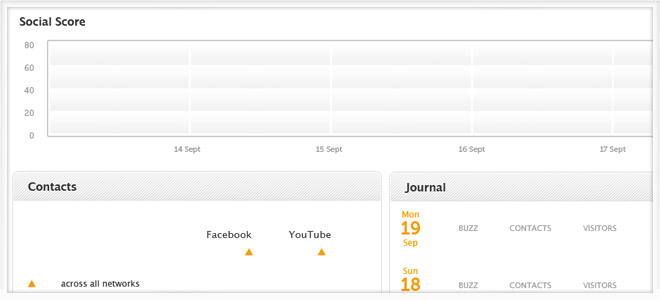
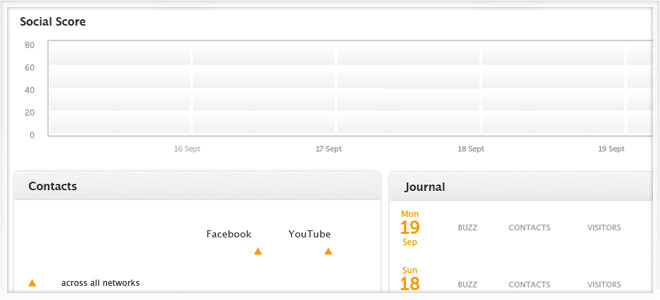
dummy buzz screens, fixed analytics slide positioning

diff --git a/stylesheets/parallax_demo.css b/stylesheets/parallax_demo.css
@@ -49,6 +49,7 @@ h1 { text-shadow: 0 0 3px #f90; }
 
 .main_slide h1 { margin-top:30px; }
 .main_slide p { padding:20px 20px 30px 20px;}
+#fan_page.main_slide p { padding:20px 20px 40px 20px;}
 .main_slide p { line-height:24px; display:block; font-size:15px; }
 .main_slide .sign_up_form { width:94%; height:300px; }
 
@@ -65,17 +66,26 @@ h1 { text-shadow: 0 0 3px #f90; }
 .slideshow_analytics .point-four { left: 608px; top: 84px; background:#fff;border:3px solid #666; height:3px; width:3px;}
 
 .slideshow_analytics .one { left: 20px; top: 205px; color: #333; font-size:60px; letter-spacing: -7px;}
-.slideshow_analytics .one-delta { left: 39px; top: 272px; color: #666; font-size:12px;letter-spacing: -1px; }
+.slideshow_analytics .one-delta { left: 39px; top: 276px; color: #666; font-size:12px;letter-spacing: -1px; }
 .slideshow_analytics .two {  left: 205px; top: 240px; color: #333; font-size: 20px; letter-spacing: -2px;}
-.slideshow_analytics .two-delta { left: 257px; top: 240px; color: #999;font-size: 12px; letter-spacing: 0; }
+.slideshow_analytics .two-delta { left: 265px; top: 244px; color: #999;font-size: 12px; letter-spacing: 0; }
 .slideshow_analytics .three { left: 288px; top: 240px; color: #333; font-size: 20px; letter-spacing: -2px; }
-.slideshow_analytics .three-delta { left: 330px; top: 240px;color: #999;font-size: 12px; letter-spacing: 0; }
+.slideshow_analytics .three-delta { left: 336px; top: 244px;color: #999;font-size: 12px; letter-spacing: 0; }
 .slideshow_analytics .four { left: 439px; top: 218px; color: #f90;font-size: 13px;  font-weight:bold;  letter-spacing: -1px; }
 .slideshow_analytics .five { left: 490px; top: 218px; color: #f90;font-size: 13px;  font-weight:bold; letter-spacing: -1px; }
 .slideshow_analytics .six { left: 563px; top: 218px; color: #f90;font-size: 13px;  font-weight:bold; letter-spacing: -1px; }
 .slideshow_analytics .seven { left: 440px; top: 276px; color: #f90;font-size: 13px;  font-weight:bold; letter-spacing: -1px;  }
 .slideshow_analytics .eight { left: 493px; top: 276px; color: #f90;font-size: 13px;  font-weight:bold; letter-spacing: -1px;  }
 .slideshow_analytics .nine { left: 563px; top: 276px; color: #f90;font-size: 13px; font-weight:bold; letter-spacing: -1px;  }
+
+.slideshow_buzz { background:#000 url(../images/slide_buzz_bg.jpg) no-repeat; width:660px; height:300px;  }
+.slideshow_buzz ul {  margin:0; padding: 0; list-style:none; background: rgba(0,0,0,0.5);}
+.slideshow_buzz ul li  {  width: 660px; height:300px; }
+.slideshow_buzz .dialog_twitter { background: transparent url(../images/slide_buzz_twitter.png) no-repeat; }
+.slideshow_buzz .dialog_facebook { background: transparent url(../images/slide_buzz_facebook.png) no-repeat; }
+.slideshow_buzz .dialog_youtube { background: transparent url(../images/slide_buzz_youtube.png) no-repeat; }
+.slideshow_buzz .dialog_flickr { background: transparent url(../images/slide_buzz_flickr.png) no-repeat; }
+
 
 a.next { background: transparent url(../images/next.png) no-repeat; width:85px; height:43px;  right: 20px; display: block ; position: absolute; text-transform: uppercase; padding-top: 5px; background-position: 30px -5px; margin-top: -15px; opacity:0.9; color: #eee;}
 a.bttn_sign_up { background-position: 125px -5px; width: 180px; margin-top:0px; }

diff --git a/index.html b/index.html
@@ -87,7 +87,13 @@
         <p>Talking to your customers and fans has never been easier. Our buzz grid aggregates all your social network feeds in a single, filterable page. Our composer lets you easily schedule your posts to Twitter and Facebook, from one central place. And our aggregated address book (<em>coming soon!</em>) lists every fan, follower, friend or contact across all your accounts. <br />
         <a href="#/analytics" class="bttn bttn_analytics next">Next</a>
         </p>
-        <div class="slideshow"></div>
+        <div class="slideshow slideshow_buzz">
+          <ul>
+            <li class="dialog_flickr"></li>
+            <!--li class="dialog_facebook"></li>
+            <li class="dialog_youtube"></li>
+            <li class="dialog_flicr"></li-->
+        </div>
       </div>
     </li>
 
